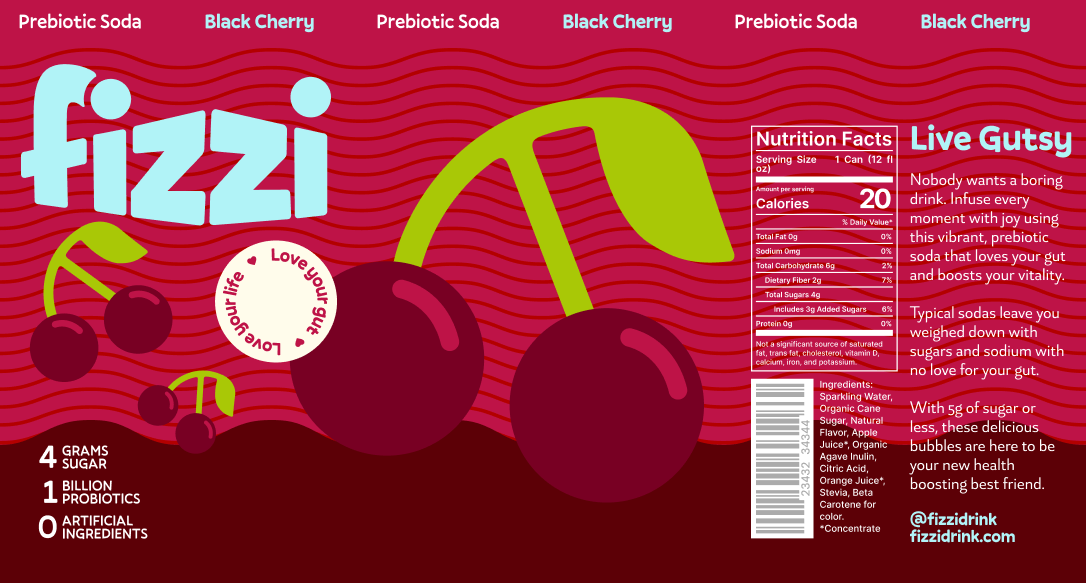
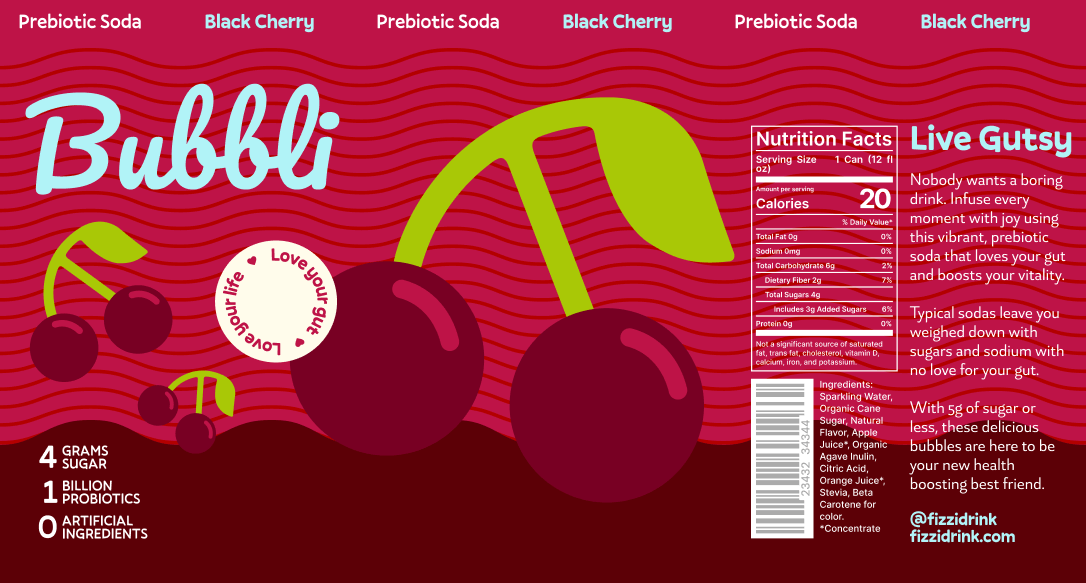
bubbli

Changed region(s): [[0.0, 0.0926, 0.3343, 0.4014]]

diff --git a/src/components/BubbliLogo.tsx b/src/components/BubbliLogo.tsx
@@ -1,0 +1,38 @@
+import clsx from "clsx";
+import { SVGProps } from "react";
+
+function BubbliLogo(props: SVGProps<SVGSVGElement>) {
+  return (
+    <svg
+      xmlns="http://www.w3.org/2000/svg"
+      width="315"
+      height="112"
+      fill="none"
+      viewBox="0 0 315 112"
+      className={clsx("group", props.className)}
+    >
+      <path
+        fill="#075985"
+        d="M95.505 34.32c0 6.347-2.24 11.835-6.72 16.464-4.48 4.555-11.013 7.84-19.6 9.856 4.63 1.27 8.139 3.36 10.528 6.272 2.39 2.837 3.584 6.123 3.584 9.856 0 5.899-1.867 11.013-5.6 15.344-3.659 4.33-9.035 7.69-16.128 10.08-7.093 2.315-15.643 3.472-25.648 3.472-3.733 0-6.72-.112-8.96-.336-.075 2.091-.97 3.659-2.688 4.704-1.717 1.045-3.92 1.568-6.608 1.568-2.688 0-4.555-.597-5.6-1.792-.97-1.195-1.381-2.949-1.232-5.264.672-10.453 1.979-21.392 3.92-32.816 1.941-11.499 4.405-22.587 7.392-33.264.523-1.867 1.568-3.173 3.136-3.92 1.568-.747 3.621-1.12 6.16-1.12 4.555 0 6.832 1.27 6.832 3.808 0 1.045-.224 2.24-.672 3.584-1.941 5.824-3.883 13.739-5.824 23.744-1.941 9.93-3.323 19.413-4.144 28.448 3.584.299 6.496.448 8.736.448 10.453 0 18.107-1.493 22.96-4.48 4.928-3.061 7.392-6.944 7.392-11.648 0-3.285-1.419-6.048-4.256-8.288-2.763-2.24-7.43-3.472-14-3.696-1.493-.075-2.539-.448-3.136-1.12-.597-.672-.896-1.755-.896-3.248 0-2.165.448-3.92 1.344-5.264.896-1.344 2.539-2.053 4.928-2.128 5.301-.15 10.08-.933 14.336-2.352 4.33-1.419 7.728-3.397 10.192-5.936 2.464-2.613 3.696-5.637 3.696-9.072 0-4.33-2.128-7.728-6.384-10.192-4.256-2.539-10.79-3.808-19.6-3.808-7.99 0-15.717 1.045-23.184 3.136-7.467 2.016-13.813 4.592-19.04 7.728-2.39 1.419-4.405 2.128-6.048 2.128-1.344 0-2.39-.448-3.136-1.344-.672-.97-1.008-2.165-1.008-3.584 0-1.867.373-3.472 1.12-4.816.821-1.344 2.725-2.875 5.712-4.592 6.272-3.584 13.627-6.384 22.064-8.4s17.061-3.024 25.872-3.024c13.515 0 23.595 2.277 30.24 6.832s9.968 10.565 9.968 18.032zM105.542 106.56c-3.36 0-6.123-1.531-8.288-4.592-2.09-3.136-3.136-7.019-3.136-11.648 0-5.6.374-10.715 1.12-15.344.747-4.704 1.979-9.67 3.696-14.896.747-2.24 1.792-3.845 3.136-4.816 1.344-.97 3.472-1.456 6.384-1.456 1.643 0 2.763.261 3.36.784.672.523 1.008 1.307 1.008 2.352 0 .597-.41 2.613-1.232 6.048-.746 2.763-1.344 5.264-1.792 7.504-1.493 7.84-2.24 13.067-2.24 15.68 0 1.568.187 2.688.56 3.36.374.597.971.896 1.792.896 1.12 0 2.502-1.12 4.144-3.36 1.718-2.24 3.51-5.637 5.376-10.192 1.942-4.555 3.808-10.155 5.6-16.8.598-2.24 1.494-3.845 2.688-4.816 1.27-.97 3.136-1.456 5.6-1.456 1.718 0 2.912.224 3.584.672.672.373 1.008 1.12 1.008 2.24 0 1.867-.933 6.981-2.8 15.344-2.09 9.557-3.136 15.456-3.136 17.696 0 1.419.299 2.539.896 3.36.598.747 1.382 1.12 2.352 1.12 1.494 0 3.248-.896 5.264-2.688 2.091-1.867 4.854-4.853 8.288-8.96.896-1.045 1.904-1.568 3.024-1.568.971 0 1.718.448 2.24 1.344.598.896.896 2.128.896 3.696 0 2.987-.709 5.301-2.128 6.944-3.21 3.957-6.682 7.205-10.416 9.744-3.658 2.539-7.84 3.808-12.544 3.808-3.584 0-6.234-1.381-7.952-4.144-1.642-2.763-2.464-6.645-2.464-11.648-1.269 5.077-3.173 8.997-5.712 11.76-2.538 2.688-5.264 4.032-8.176 4.032z"
+      ></path>
+      <path
+        fill="#075985"
+        d="M205.437 71.616c.97 0 1.717.485 2.24 1.456.522.97.784 2.203.784 3.696 0 1.867-.262 3.323-.784 4.368-.523.97-1.344 1.643-2.464 2.016-4.48 1.568-9.408 2.464-14.784 2.688-1.494 6.197-4.331 11.2-8.512 15.008-4.107 3.808-8.662 5.712-13.664 5.712-7.542 0-13.03-2.875-16.464-8.624-3.435-5.75-5.152-14.075-5.152-24.976 0-9.632 1.194-20.085 3.584-31.36 2.389-11.35 5.861-20.981 10.416-28.896C165.266 4.714 170.754.72 177.101.72c3.434 0 6.197 1.493 8.288 4.48 2.09 2.912 3.136 6.72 3.136 11.424 0 6.123-1.158 12.208-3.472 18.256-2.315 6.048-6.16 12.395-11.536 19.04 5.002.373 9.072 2.464 12.208 6.272 3.136 3.733 5.002 8.363 5.6 13.888 3.509-.224 7.69-.97 12.544-2.24.448-.15.97-.224 1.568-.224zm-30.912-59.808c-1.494 0-3.136 2.24-4.928 6.72-1.718 4.405-3.323 10.416-4.816 18.032-1.494 7.616-2.614 15.941-3.36 24.976 4.928-9.035 8.848-16.987 11.76-23.856 2.986-6.944 4.48-13.104 4.48-18.48 0-2.39-.299-4.219-.896-5.488-.523-1.27-1.27-1.904-2.24-1.904zm-5.824 82.88c2.314 0 4.368-.97 6.16-2.912 1.792-1.941 2.986-4.741 3.584-8.4-2.315-1.568-4.107-3.621-5.376-6.16a18.704 18.704 0 01-1.792-8.064c0-1.045.149-2.464.448-4.256h-.336c-3.062 0-5.638 1.53-7.728 4.592-2.016 2.987-3.024 7.019-3.024 12.096 0 4.256.784 7.504 2.352 9.744 1.642 2.24 3.546 3.36 5.712 3.36z"
+      ></path>
+      <path
+        fill="#075985"
+        d="M258.374 71.616c.971 0 1.717.485 2.24 1.456.523.97.784 2.203.784 3.696 0 1.867-.261 3.323-.784 4.368-.523.97-1.344 1.643-2.464 2.016-4.48 1.568-9.408 2.464-14.784 2.688-1.493 6.197-4.331 11.2-8.512 15.008-4.107 3.808-8.661 5.712-13.664 5.712-7.541 0-13.029-2.875-16.464-8.624-3.435-5.75-5.152-14.075-5.152-24.976 0-9.632 1.195-20.085 3.584-31.36 2.389-11.35 5.861-20.981 10.416-28.896C218.203 4.714 223.691.72 230.038.72c3.435 0 6.197 1.493 8.288 4.48 2.091 2.912 3.136 6.72 3.136 11.424 0 6.123-1.157 12.208-3.472 18.256s-6.16 12.395-11.536 19.04c5.003.373 9.072 2.464 12.208 6.272 3.136 3.733 5.003 8.363 5.6 13.888 3.509-.224 7.691-.97 12.544-2.24.448-.15.971-.224 1.568-.224zm-30.912-59.808c-1.493 0-3.136 2.24-4.928 6.72-1.717 4.405-3.323 10.416-4.816 18.032-1.493 7.616-2.613 15.941-3.36 24.976 4.928-9.035 8.848-16.987 11.76-23.856 2.987-6.944 4.48-13.104 4.48-18.48 0-2.39-.299-4.219-.896-5.488-.523-1.27-1.269-1.904-2.24-1.904zm-5.824 82.88c2.315 0 4.368-.97 6.16-2.912 1.792-1.941 2.987-4.741 3.584-8.4-2.315-1.568-4.107-3.621-5.376-6.16a18.704 18.704 0 01-1.792-8.064c0-1.045.149-2.464.448-4.256h-.336c-3.061 0-5.637 1.53-7.728 4.592-2.016 2.987-3.024 7.019-3.024 12.096 0 4.256.784 7.504 2.352 9.744 1.643 2.24 3.547 3.36 5.712 3.36z"
+      ></path>
+      <path
+        fill="#075985"
+        d="M294.176 81.024c.97 0 1.717.448 2.24 1.344.597.896.896 2.128.896 3.696 0 2.987-.71 5.301-2.128 6.944-3.211 3.957-6.72 7.205-10.528 9.744-3.734 2.539-7.99 3.808-12.768 3.808-6.571 0-11.462-2.987-14.672-8.96-3.136-5.973-4.704-13.701-4.704-23.184 0-9.11 1.157-19.488 3.472-31.136 2.389-11.648 5.861-21.653 10.416-30.016C271.029 4.901 276.517.72 282.864.72c3.584 0 6.384 1.68 8.4 5.04 2.09 3.285 3.136 8.027 3.136 14.224 0 8.885-2.464 19.19-7.392 30.912-4.928 11.723-11.611 23.333-20.048 34.832.522 3.061 1.381 5.264 2.576 6.608 1.194 1.27 2.762 1.904 4.704 1.904 3.061 0 5.749-.859 8.064-2.576 2.314-1.792 5.264-4.816 8.848-9.072.896-1.045 1.904-1.568 3.024-1.568zM280.4 11.808c-1.718 0-3.659 3.099-5.824 9.296-2.166 6.197-4.07 13.888-5.712 23.072-1.643 9.184-2.539 17.995-2.688 26.432 5.301-8.736 9.52-17.472 12.656-26.208 3.136-8.81 4.704-16.837 4.704-24.08 0-5.675-1.046-8.512-3.136-8.512z"
+      ></path>
+      <path
+        fill="#075985"
+        d="M303.715 46.416c-3.136 0-5.488-.71-7.056-2.128-1.568-1.493-2.352-3.547-2.352-6.16s1.008-4.779 3.024-6.496c2.09-1.792 4.666-2.688 7.728-2.688 2.762 0 5.002.672 6.72 2.016 1.717 1.344 2.576 3.248 2.576 5.712 0 2.987-.971 5.376-2.912 7.168-1.942 1.717-4.518 2.576-7.728 2.576zm-10.752 60.144c-2.39 0-4.032-.485-4.928-1.456-.896-.971-1.344-2.501-1.344-4.592 0-.597.074-1.643.224-3.136 1.194-13.664 3.173-26.096 5.936-37.296.597-2.315 1.568-3.92 2.912-4.816 1.418-.97 3.658-1.456 6.72-1.456 3.21 0 4.816 1.307 4.816 3.92 0 .373-.075 1.083-.224 2.128-3.36 15.979-5.376 29.381-6.048 40.208-.15 2.389-.859 4.069-2.128 5.04-1.27.971-3.248 1.456-5.936 1.456z"
+      ></path>
+    </svg>
+  );
+}
+
+export default BubbliLogo;

diff --git a/src/components/Footer.tsx b/src/components/Footer.tsx
@@ -1,5 +1,5 @@
+import BubbliLogo from "./BubbliLogo";
 import CircleText from "./CircleText";
-import { FizziLogo } from "./FizziLogo";
 
 interface FooterProps {}
 
@@ -7,7 +7,7 @@ const Footer = ({}: FooterProps) => {
   return (
     <footer className="bg-[#FEE832] text-[#FE6334]">
       <div className="relative mx-auto flex w-full max-w-4xl justify-center px-4 py-10">
-        <FizziLogo />
+        <BubbliLogo />
         <div className="absolute right-24 top-0 size-28 origin-center -translate-y-14 md:size-48 md:-translate-y-28">
           <CircleText />
         </div>

diff --git a/src/components/Header.tsx b/src/components/Header.tsx
@@ -1,11 +1,11 @@
-import { FizziLogo } from "./FizziLogo";
+import BubbliLogo from "./BubbliLogo";
 
 type Props = {};
 
 export default function Header({}: Props) {
   return (
-    <header className="flex justify-center py-4 -mb-28">
-      <FizziLogo className="h-20 z-10 cursor-pointer text-sky-800 " />
+    <header className="-mb-28 flex justify-center pb-4 pt-20">
+      <BubbliLogo className="z-10 h-20 scale-150 cursor-pointer text-sky-800" />
     </header>
   );
 }

diff --git a/src/slices/Hero/Bubbles.tsx b/src/slices/Hero/Bubbles.tsx
@@ -80,8 +80,8 @@ export function Bubbles({
 
       // Reset bubble position if it moves off the top of the screen
       if (o.position.y > 4 && repeat) {
-        o.position.y = -2; // Reset to bottom
         o.position.x = gsap.utils.random(-4, 4);
+        o.position.y = 2; // Reset to bottom
         o.position.z = gsap.utils.random(0, 8);
       }
 

diff --git a/src/slices/Hero/HeroScene.tsx b/src/slices/Hero/HeroScene.tsx
@@ -111,6 +111,7 @@ const HeroScene = ({}: HeroSceneProps) => {
       .to(can5Ref.current.position, { x: 0.3, y: 0.5, z: -0.5 }, 0)
       .to(can5Ref.current.rotation, { z: -0.25 }, 0);
 
+    // Can group to the right
     scrollTimeLine.to(
       groupRef.current.position,
       { x: 1, duration: 3, ease: "sine.inOut" },
